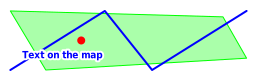
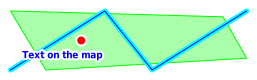
docs: new vmap render features

Changed region(s): [[0.1245, 0.1, 0.9961, 0.925], [0.0311, 0.725, 0.1245, 0.925]]

diff --git a/docs/vmap2types.htm b/docs/vmap2types.htm
@@ -141,6 +141,8 @@
 хотя я старался использовать узкую полосу знака "остров леса" - теперь
 введен отдельный линейный знак.
 Отдельные деревья и завалы рисовались только на картах ММБ.
+<p><img src="types_examples/forest1.png">
+<br>Порядок рисования, фон вокруг текста
 <h3>Рельеф</h3>
 
 <table cellspacing=0 cellpadding=3 border=1 width="100%">
